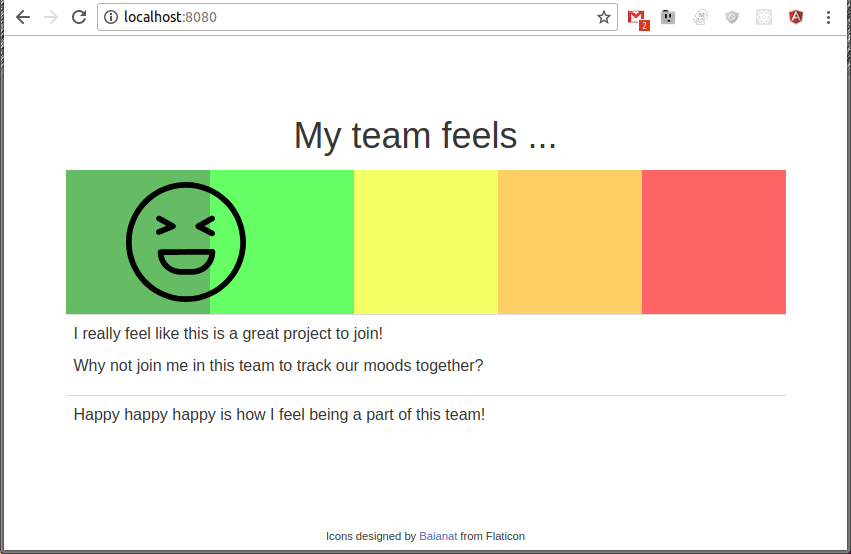
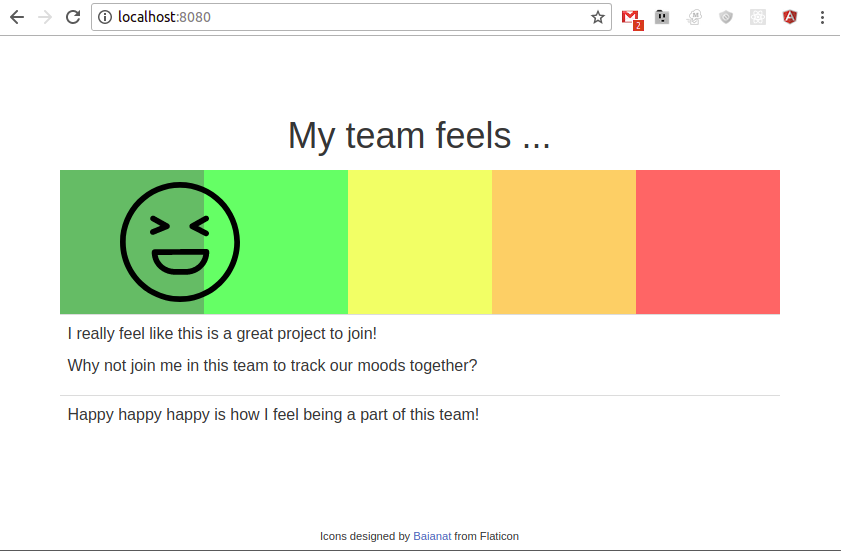
Remove browser border around screenshots for readme

diff --git a/README.md b/README.md
@@ -4,10 +4,10 @@ Each person is able to only record one feeling for the day,
 and an optional comment.
 Once the day expires then the team member can record another feeling.
 
-![alt text](https://raw.githubusercontent.com/superphilharris/mood/master/readme/mood.png)
+![](https://raw.githubusercontent.com/superphilharris/mood/master/readme/mood.png)
 
 After the person has recorded their feeling, then they can see the overall team mood.
-![alt text](https://raw.githubusercontent.com/superphilharris/mood/master/readme/mood-average.png)
+![](https://raw.githubusercontent.com/superphilharris/mood/master/readme/mood-average.png)
 
 
 ## Technologies Used
